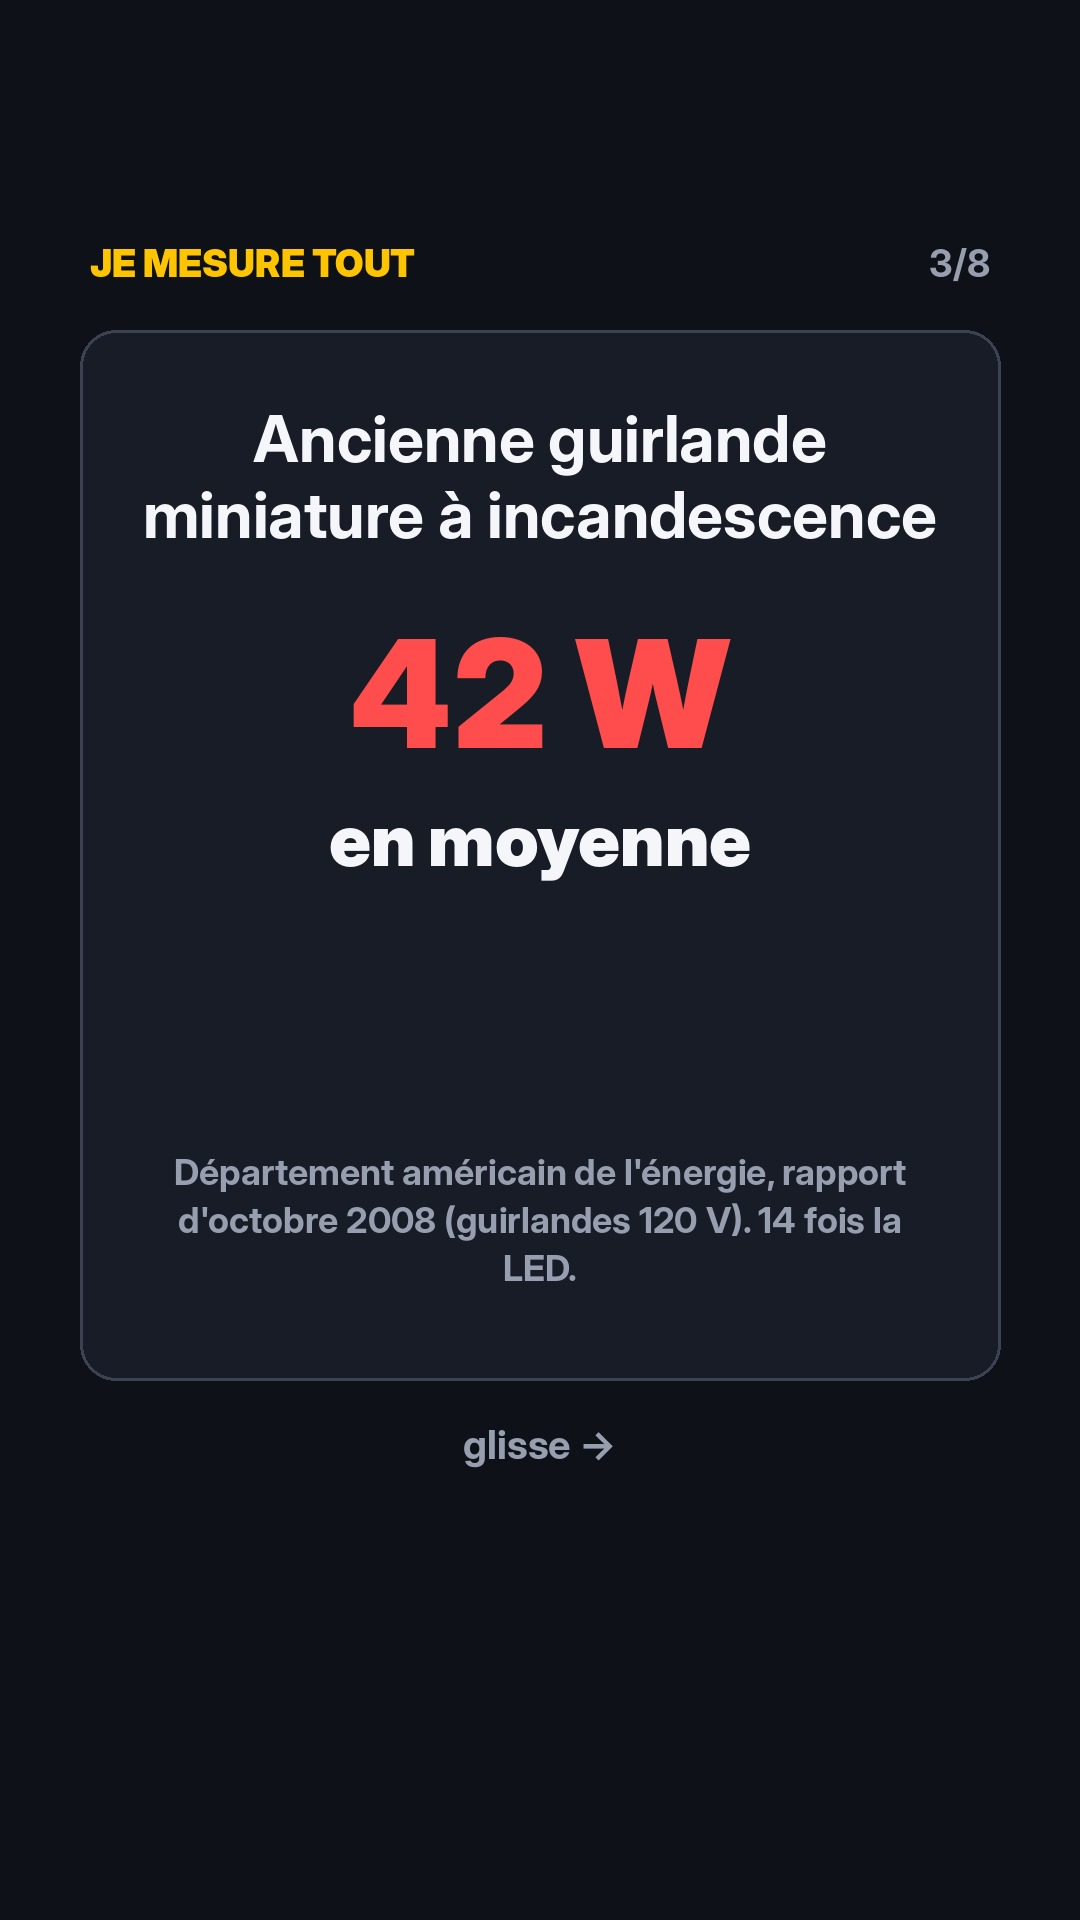
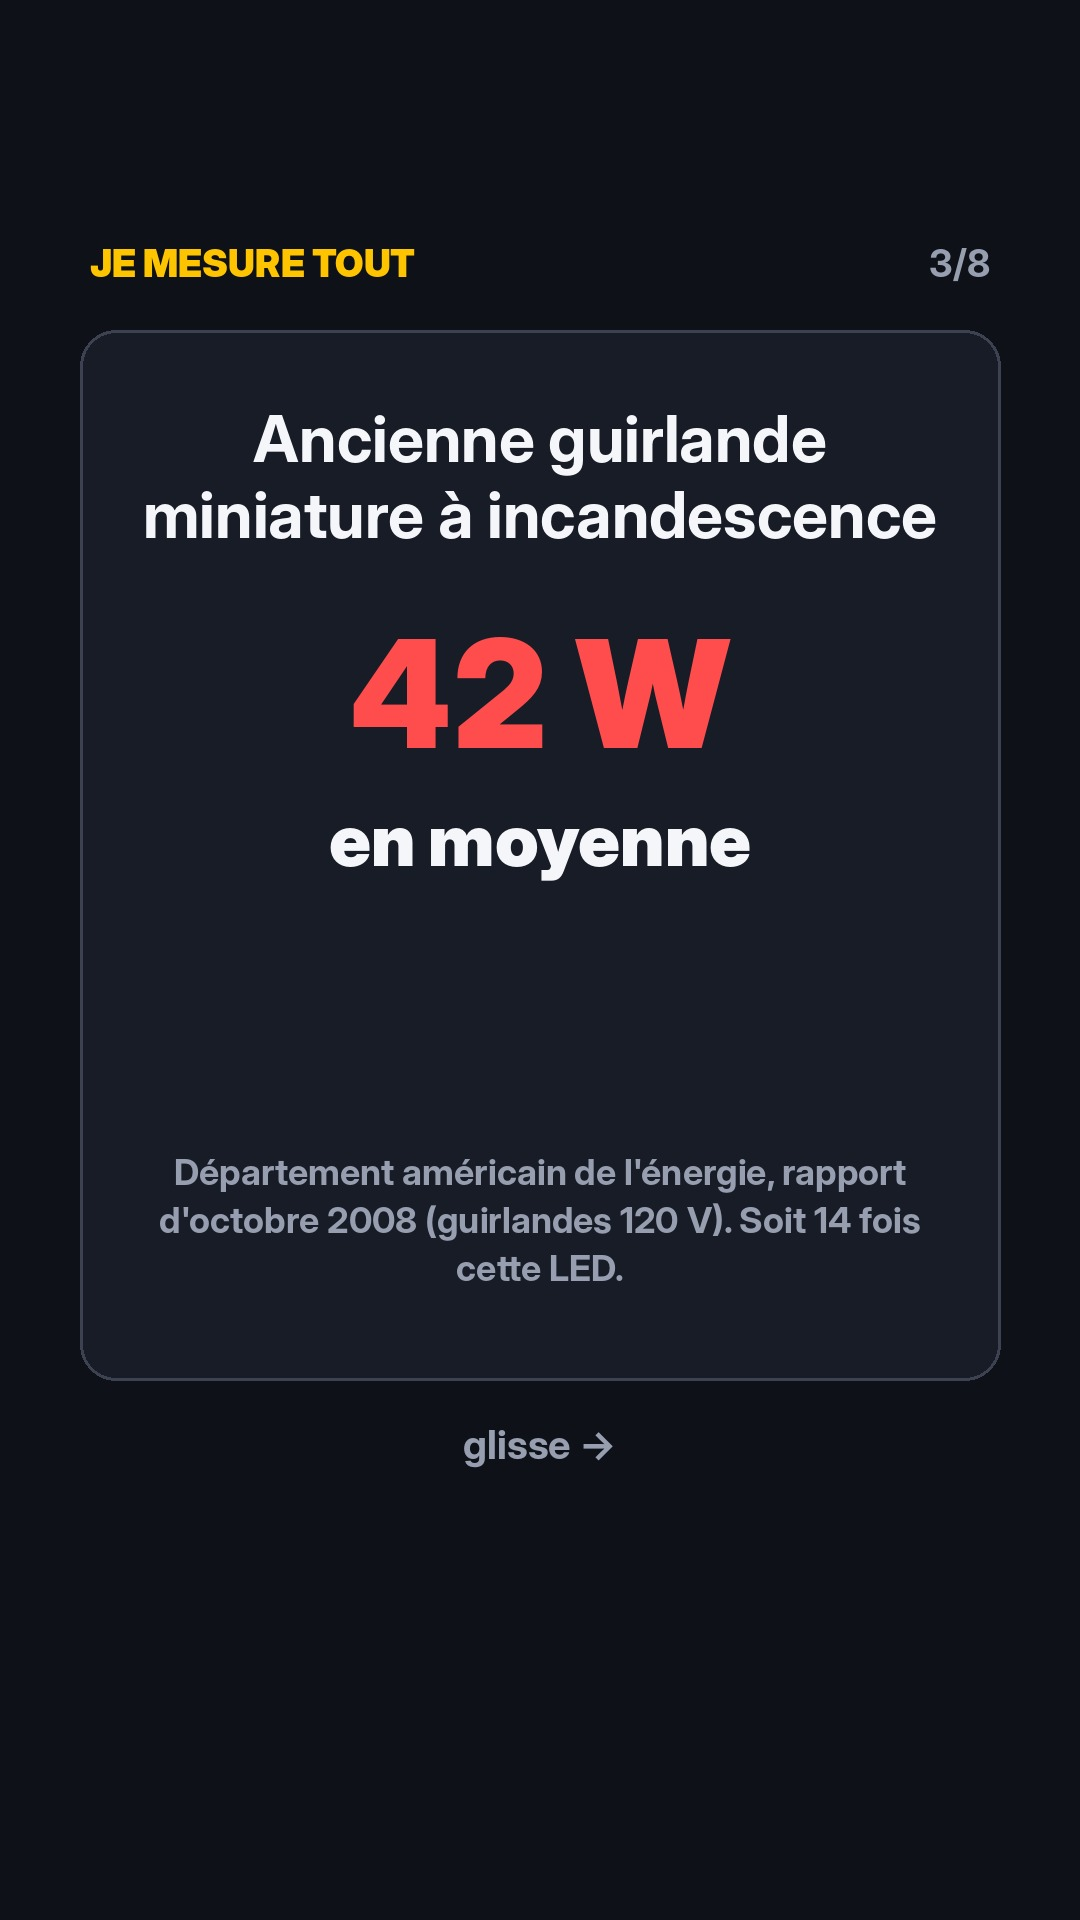
Carrousels 84 et 85 corrigés après contrôle [skip-bridge]

Changed region(s): [[0.1528, 0.625, 0.8556, 0.6875]]

diff --git a/autopilot/tools/carousel84.py b/autopilot/tools/carousel84.py
@@ -16,6 +16,7 @@ def wrap(d,txt,font,maxw):
         else: lines.append(cur); cur=w
     lines.append(cur); return lines
 def block(d,y,txt,font,fill,maxw=800,gap=12):
+    txt=txt.replace('« ','«\u00a0').replace(' »','\u00a0»')
     for ln in wrap(d,txt,font,maxw):
         w=d.textlength(ln,font=font); d.text(((W-w)/2,y),ln,font=font,fill=fill); y+=font.size+gap
     return y
@@ -55,15 +56,15 @@ def slide(i,top,big,bigcol,sub,note):
     block(d,max(y+60,1150),note,f('InterDisplay-Bold.otf',36),GR,maxw=800)
     swipe(d); save(im,i)
 slide(2,'Guirlande LED de 100 diodes','3 W',ACC,'sur la fiche du fabricant','Fiche Konstsmide 6304-100 : 3 kWh pour 1000 h (étiquette énergie).')
-slide(3,'Ancienne guirlande miniature à incandescence','42 W',RED,'en moyenne','Département américain de l\'énergie, rapport d\'octobre 2008 (guirlandes 120 V). 14 fois la LED.')
+slide(3,'Ancienne guirlande miniature à incandescence','42 W',RED,'en moyenne','Département américain de l\'énergie, rapport d\'octobre 2008 (guirlandes 120 V). Soit 14 fois cette LED.')
 slide(4,'Allumée jour et nuit, tout décembre','744 h',ACC,'31 jours × 24 h','Scénario « jour et nuit », pas une mesure.')
 slide(5,'La guirlande LED, tout décembre','0,62 CHF',GRN,'3 W × 744 h = 2,23 kWh','Tarif médian ElCom 2026 : 27,7 ct./kWh hors TVA (ménage H4).')
 slide(6,'L\'ancienne, le même mois','8,66 CHF',RED,'42 W × 744 h = 31,2 kWh','Même tarif : 27,7 ct./kWh hors TVA.')
 # 7 verdict
 im=bg(); d=ImageDraw.Draw(im); head(d,7); card(d,330,1380)
 y=block(d,400,'VERDICT',f('InterDisplay-Black.otf',64),ACC)
-y=block(d,y+30,'La LED coûte 14 fois moins. Et une minuterie divise encore par 4.',f('InterDisplay-Black.otf',66),WH,gap=10)
-y=block(d,y+50,'Exemple : 6 h par soir → LED 0,15 CHF, ancienne 2,16 CHF pour tout décembre.',f('InterDisplay-Bold.otf',52),GRN)
+y=block(d,y+30,'Ici, la LED coûte 14 fois moins que l\'ancienne. Avec une minuterie, encore moins.',f('InterDisplay-Black.otf',66),WH,gap=10)
+y=block(d,y+50,'Exemple : 6 h par soir, facture ÷ 4 → LED 0,15\u00a0CHF, ancienne 2,16\u00a0CHF pour tout décembre.',f('InterDisplay-Bold.otf',52),GRN)
 block(d,y+40,'SuisseEnergie conseille une minuterie. 6 h par soir est une valeur d\'exemple ; montants hors TVA.',f('InterDisplay-Bold.otf',36),GR,maxw=800)
 swipe(d); save(im,7)
 # 8 commentaires

diff --git a/autopilot/tools/carousel85.py b/autopilot/tools/carousel85.py
@@ -16,6 +16,7 @@ def wrap(d,txt,font,maxw):
         else: lines.append(cur); cur=w
     lines.append(cur); return lines
 def block(d,y,txt,font,fill,maxw=800,gap=12):
+    txt=txt.replace('« ','«\u00a0').replace(' »','\u00a0»')
     for ln in wrap(d,txt,font,maxw):
         w=d.textlength(ln,font=font); d.text(((W-w)/2,y),ln,font=font,fill=fill); y+=font.size+gap
     return y
